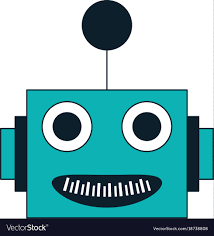
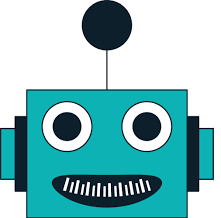
changed robot and styling on receipt

diff --git a/receipt.html b/receipt.html
@@ -38,25 +38,22 @@
     <div class="container-fluid" style="height:100%">
             <div class="row mt-4" style="height:100%">
                 <div class="col-md-4" id="file-container" style="height: 100%">
-                    <div id="file-card" class="bg-light">
+                    <div id="file-card" class="bg-light" hidden="hidden">
                         <div id="img-container">
                             <img id="output" style="max-width: 300px; max-height: 500px; border: none;"/>
-
                         </div>
                         <div id="file-input-container">
-                           
-                            <input id="file_input" type="file" accept="image/*" onchange="loadFile(event)" style="float:right">
                             <button id="remove" class="btn-danger" hidden="hidden" type="button" onclick="remove(event)" style="float:right; margin-right:1em;">Remove image</button>
                         </div>
                     </div>
                 </div>
                 <div class="col-md-4">
-                    <input id="file_input" type="file" accept="image/*" onchange="loadFile(event)" style="float:right">
-                    <br/>
-                    <div id="arrow-container">
+                    <div class="inline-block" id="arrow-container">
+                        <input id="file_input" type="file" accept="image/*" style="display:none;" onchange="loadFile(event)">
+                        <input type="button" style="margin-left:60px;margin-bottom:50px;" value="Add receipt" onclick="document.getElementById('file_input').click();" />
                         <br/>
                         <img src="static/robot.png" style="max-width: 300px; max-height: 500px; border: none;" alt="left parsed to right"/>
-
+                        <br/>
                     </div>
                 </div>
                 <div class="col" id="item-colon">
@@ -66,12 +63,10 @@
                     </div>
                     <div class="row">
                         <div class="col">
-                            <button class="btn-success" id="add-receit-button" onclick="returnJson()" >Add receipt items</button>
+                            <button class="btn-success" style="margin-left:50px;margin-top:50px" id="add-receipt-button" hidden="hidden" onclick="returnJson()">Add receipt items</button>
                         </div>
                     </div>
-
                 </div>
-                
             </div>
     </div>
 </body>

diff --git a/script/receipt.js b/script/receipt.js
@@ -23,7 +23,9 @@ var remove = function (event) {
     var output = document.getElementById('output');
     output.removeAttribute('src');
 
-    document.getElementById('add-receit-button').hidden = true;
+    document.getElementById('add-receipt-button').hidden = true;
+    document.getElementById('file-card').hidden = true;
+    $("#item-card-container").empty();
     this.jsonres = "";
 }
 
@@ -63,7 +65,8 @@ var parseImg = async function (files) {
                             `
                     }
                     $("#item-card-container").append(text);
-                    document.getElementById('add-receit-button').hidden = false;
+                    document.getElementById('file-card').hidden = false;
+                    document.getElementById('add-receipt-button').hidden = false;
                 }
             }
         });
